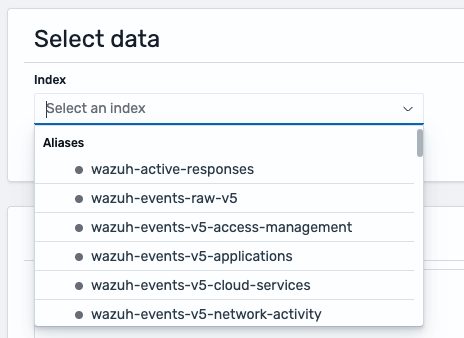
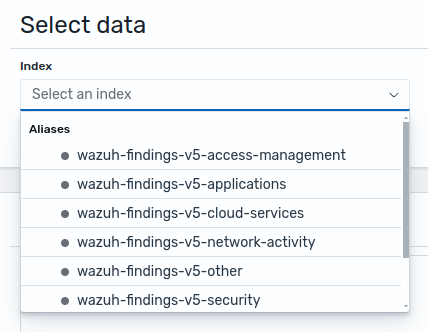
docs(active-response): minor fixes, adapt images to new changes related to wazuh.rule.title and title value and missing images

Changed region(s): [[0.0, 0.1807, 1.0, 0.994], [0.0304, 0.0301, 0.3645, 0.1506], [0.9112, 0.2711, 0.9416, 0.3012]]

diff --git a/docs/ref/modules/active-response/monitor-executions.md b/docs/ref/modules/active-response/monitor-executions.md
@@ -17,20 +17,20 @@ When a monitor trigger fires an active response, a new document appears here wit
 
 ![Discover - Expanded active response document](images/18-discover-ar-document-expanded.png)
 
-The most useful fields for investigation are listed below. The **Expected value** column shows what each field should hold for the SSH root-login use case (`Block-IP-stateful-response` firing on a `SSH Root Login via Password Authentication` alert); use it as a quick sanity check against the document that was just written.
+The most useful fields for investigation are listed below. The **Expected value** column shows what each field should hold for the SSH root-login use case (`Block-IP-stateful-response` firing on a `SSH root login via password authentication` alert); use it as a quick sanity check against the document that was just written.
 
-| Field                                    | Content                                                         | Expected value (use case)                                            |
-| ---------------------------------------- | --------------------------------------------------------------- | -------------------------------------------------------------------- |
-| `@timestamp`                             | Time the execution was recorded.                                | Within ~1 min of the original `SSH Root Login via Password Authentication` alert. |
-| `wazuh.active_response.name`             | Active response name.                                           | `Block-IP-stateful-response`                                         |
-| `wazuh.active_response.type`             | `stateful` or `stateless`.                                      | `stateful`                                                           |
-| `wazuh.active_response.executable`       | Executable that was run.                                        | `block-ip`                                                           |
-| `wazuh.active_response.extra_arguments`  | Extra arguments passed to the executable.                       | _(empty)_                                                            |
-| `wazuh.active_response.stateful_timeout` | Timeout in seconds (stateful active responses only).            | `30`                                                                 |
-| `wazuh.active_response.location`         | `all`, `defined-agent`, or `local`.                             | `local`                                                              |
-| `wazuh.active_response.agent_id`         | Target agent ID (only when `location = defined-agent`).         | _(not set — `location = local`)_                                     |
-| `wazuh.agent.id`, `.name`                | Agent that reported the original alert.                         | The agent that received the root SSH login.                          |
-| `event.doc_id`, `event.index`            | Original alert that triggered the action (useful for pivoting). | Points back to the `SSH Root Login via Password Authentication` finding. |
+| Field                                    | Content                                                         | Expected value (use case)                                                         |
+| ---------------------------------------- | --------------------------------------------------------------- | --------------------------------------------------------------------------------- |
+| `@timestamp`                             | Time the execution was recorded.                                | Within ~1 min of the original `SSH root login via password authentication` alert. |
+| `wazuh.active_response.name`             | Active response name.                                           | `Block-IP-stateful-response`                                                      |
+| `wazuh.active_response.type`             | `stateful` or `stateless`.                                      | `stateful`                                                                        |
+| `wazuh.active_response.executable`       | Executable that was run.                                        | `block-ip`                                                                        |
+| `wazuh.active_response.extra_arguments`  | Extra arguments passed to the executable.                       | _(empty)_                                                                         |
+| `wazuh.active_response.stateful_timeout` | Timeout in seconds (stateful active responses only).            | `30`                                                                              |
+| `wazuh.active_response.location`         | `all`, `defined-agent`, or `local`.                             | `local`                                                                           |
+| `wazuh.active_response.agent_id`         | Target agent ID (only when `location = defined-agent`).         | _(not set — `location = local`)_                                                  |
+| `wazuh.agent.id`, `.name`                | Agent that reported the original alert.                         | The agent that received the root SSH login.                                       |
+| `event.doc_id`, `event.index`            | Original alert that triggered the action (useful for pivoting). | Points back to the `SSH root login via password authentication` finding.          |
 
 > **Tip:** to narrow the list to a different active response, replace `Block-IP-stateful-response` in the filter with the value of `wazuh.active_response.name` you want to inspect.
 
@@ -79,6 +79,6 @@ After the `Stateful timeout` elapses (`30` seconds for `Block-IP-stateful-respon
 
 ## Step 4: Pivot to the source alert
 
-From any execution record, `event.doc_id` and `event.index` point back to the alert that fired the action. Switch the Discover index pattern to the value of `event.index` (for the SSH root-login use case, this resolves to `wazuh-findings-v5-access-management*`) and filter by `_id == event.doc_id` to open the original `SSH Root Login via Password Authentication` alert. This closes the loop between **detection → activation → execution**.
+From any execution record, `event.doc_id` and `event.index` point back to the alert that fired the action. Switch the Discover index pattern to the value of `event.index` (for the SSH root-login use case, this resolves to `wazuh-findings-v5-access-management*`) and filter by `_id == event.doc_id` to open the original `SSH root login via password authentication` alert. This closes the loop between **detection → activation → execution**.
 
 > **Note:** execution records are retained for **3 days** by default. If you need longer forensic retention, ask your administrator to adjust the retention policy or export the records to another index.

diff --git a/docs/ref/modules/active-response/index.md b/docs/ref/modules/active-response/index.md
@@ -2,7 +2,7 @@
 
 The **Active Response** module automates remediation actions on Wazuh agents when an alert meets a condition. Typical use cases include blocking an offending IP, isolating a compromised host, killing a suspicious process, or running a custom containment action.
 
-The feature is fully integrated with the Wazuh Dashboard: each active response is defined from the **Active Responses** view (under **Explore**), invoked from an **Alerting** monitor trigger, and audited from **Discover**.
+The feature is fully integrated with the Wazuh dashboard: each active response is defined from the **Active Responses** view (under **Explore**), invoked from an **Alerting** monitor trigger, and audited from **Discover**.
 
 This module exposes the following views:
 
@@ -13,13 +13,13 @@ This module exposes the following views:
 
 ## How it fits together
 
-Active Response combines three areas of the Wazuh Dashboard:
+Active Response combines three areas of the Wazuh dashboard:
 
-| Area                      | Role in Active Response                                                                                                                                                          |
-| ------------------------- | -------------------------------------------------------------------------------------------------------------------------------------------------------------------------------- |
-| **Active Responses view** | Manage active responses from the Wazuh Dashboard (under **Explore → Active Responses**). Each entry defines the executable, type, timeout, and target location of a remediation. |
-| **Alerting**              | Active Response monitors expose an **Add active response** action that invokes one when the trigger condition is met.                                                            |
-| **Discover**              | The `wazuh-active-responses*` index pattern keeps an auditable record of every execution, retained for 3 days by default.                                                        |
+| Area                 | Role in Active Response                                                                                                                                                          |
+| -------------------- | -------------------------------------------------------------------------------------------------------------------------------------------------------------------------------- |
+| **Active Responses** | Manage active responses from the Wazuh dashboard (under **Explore → Active Responses**). Each entry defines the executable, type, timeout, and target location of a remediation. |
+| **Alerting**         | Active Response monitors expose an **Add active response** action that invokes one when the trigger condition is met.                                                            |
+| **Discover**         | The `wazuh-active-responses*` index pattern keeps an auditable record of every execution, retained for 3 days by default.                                                        |
 
 An active response never runs on its own: it must be attached to an Active Response monitor trigger. When the trigger fires, an execution record is stored in **Discover**, the manager picks it up within about one minute, and the target agent carries out the action.
 

diff --git a/docs/ref/modules/active-response/alerting-integration.md b/docs/ref/modules/active-response/alerting-integration.md
@@ -34,11 +34,11 @@ Under **Select data**, pick the findings index that holds the events to watch. F
 
 ## Step 4: Define the query
 
-In the **Query** section, describe the conditions that the incoming alerts must meet. For this SSH root-login use case, target the built-in Wazuh rule that flags a root login via password authentication on SSH — `rule.title: "SSH Root Login via Password Authentication"`. Add a **Query name** (required, `Block-IP-query` for this use case) and fill in the condition:
+In the **Query** section, describe the conditions that the incoming alerts must meet. For this SSH root-login use case, target the built-in Wazuh rule that flags a root login via password authentication on SSH — `wazuh.rule.title: "SSH root login via password authentication"`. Add a **Query name** (required, `Block-IP-query` for this use case) and fill in the condition:
 
-- **Field** — `rule.title`
+- **Field** — `wazuh.rule.title`
 - **Operator** — `is`
-- **Search term** — `SSH Root Login via Password Authentication`
+- **Search term** — `SSH root login via password authentication`
 
 ![Query - Filled query and performance preview](images/11-monitor-query-filled.png)
 
@@ -82,7 +82,7 @@ The action automatically wires the triggering alert to the active response, so t
 
 ## Step 7: Generate the triggering event
 
-With the monitor saved, produce a real `SSH Root Login via Password Authentication` alert so the trigger fires and the active response runs end-to-end. The procedure below is intended for a **lab agent** — do not run it against production hosts.
+With the monitor saved, produce a real `SSH root login via password authentication` alert so the trigger fires and the active response runs end-to-end. The procedure below is intended for a **lab agent** — do not run it against production hosts.
 
 **Pre-requisites on the target agent:**
 
@@ -96,7 +96,7 @@ With the monitor saved, produce a real `SSH Root Login via Password Authenticati
 
 > **Warning:** enabling `PermitRootLogin yes` on a non-lab host is a serious security risk. Roll it back in **Step 8: Clean up** as soon as the test has been validated.
 
-From the **attacker host**, perform an SSH login attempt as `root` using password authentication. The goal is to make the agent emit a `SSH Root Login via Password Authentication` event:
+From the **attacker host**, perform an SSH login attempt as `root` using password authentication. The goal is to make the agent emit a `SSH root login via password authentication` event:
 
 ```bash
 ssh -o PreferredAuthentications=password \
@@ -109,7 +109,7 @@ Enter the root password at the prompt. The login should succeed (otherwise the r
 
 ![SSH root login via password from the attacker host](images/19-ssh-root-login-simulation.png)
 
-Within about one minute, an alert with `rule.title: SSH Root Login via Password Authentication` is indexed under `wazuh-findings-v5-access-management*`, the monitor fires, and the trigger queues the active response action. Continue to [Monitor active response executions](./monitor-executions.md) to confirm the execution end-to-end.
+Within about one minute, a finding with `wazuh.rule.title: SSH root login via password authentication` is indexed under `wazuh-findings-v5-access-management*`, the monitor fires, and the trigger queues the active response action. Continue to [Monitor active response executions](./monitor-executions.md) to confirm the execution end-to-end.
 
 ---
 

diff --git a/docs/ref/modules/active-response/create.md b/docs/ref/modules/active-response/create.md
@@ -5,7 +5,7 @@ The following walkthrough shows how to create an active response that blocks the
 **Prerequisites:**
 
 - Wazuh indexer, manager, and dashboard running version **5.0.0** or later.
-- The `wazuh-active-responses*` index pattern available in **Stack Management → Index Patterns**. The dashboard creates it automatically at startup; contact your administrator if it is missing.
+- The `wazuh-active-responses*` index pattern available in **Dashboard Management → Index Patterns**. The dashboard creates it automatically at startup; contact your administrator if it is missing.
 
 > **Note:** creating the active response only stores the executable name. For the remediation to actually run when the monitor fires, the executable must be available on the target agent — see [Concepts → About the executable](index.md#about-the-executable).
 
@@ -13,7 +13,7 @@ The following walkthrough shows how to create an active response that blocks the
 
 ## Step 1: Open the Active Responses view
 
-Inside the Wazuh Dashboard, open the side menu (top-left hamburger icon), expand **Explore**, and select **Active Responses**.
+Inside the Wazuh dashboard, open the side menu (top-left hamburger icon), expand **Explore**, and select **Active Responses**.
 
 ![Side menu - Explore → Active Responses](images/00-explore-menu-entry.png)
 